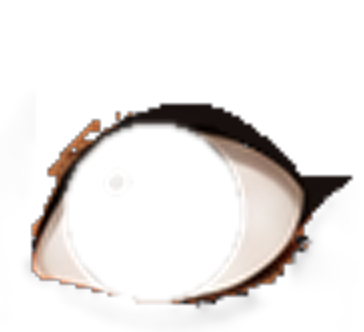
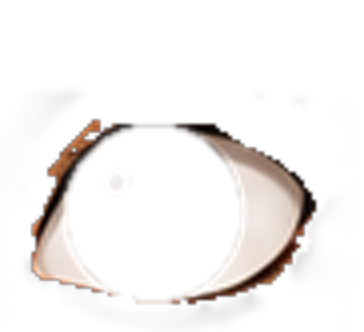
Yeux : eye-liner du haut dessiné net par le jeu, trait du bas retiré
Claude-Session: https://claude.ai/code/session_01RffJDTtPaeahFdiXkdY2ya

diff --git a/js/yeux-art.js b/js/yeux-art.js
@@ -1,6 +1,6 @@
 /* yeux décalqués par tools/traceur-yeux.py sur docs/references/yeux/ — ne pas modifier à la main
    [x, y, l, h] de l'image par rapport au centre de l'œil, centre x/y et rayon de l'iris, puis 9 points de la paupière
    (coin intérieur → extérieur) pour les cils dessinés par le jeu (unités du jeu) */
-const EYE_ART={"ronds":{"g":[-38.56,-44.99,74.72,67.49,3.12,-2.31,17.36,[25.71,-1.53],[19.28,-10.06],[12.85,-16.53],[6.43,-20.92],[0.0,-23.2],[-6.43,-23.36],[-12.85,-21.41],[-19.28,-17.35],[-25.71,-11.16]],"d":[-33.34,-44.59,73.11,66.68,-2.86,-2.06,17.44,[-26.11,-3.88],[-19.59,-12.17],[-13.06,-18.38],[-6.52,-22.47],[0.0,-24.43],[6.52,-24.25],[13.06,-21.92],[19.59,-17.45],[26.11,-10.84]]},"amande":{"g":[-39.77,-42.58,77.13,62.67,3.02,-1.31,16.78,[25.31,1.0],[18.98,-6.99],[12.65,-13.1],[6.33,-17.28],[0.0,-19.51],[-6.33,-19.81],[-12.65,-18.16],[-18.98,-14.55],[-25.31,-8.98]],"d":[-37.36,-42.98,77.13,61.06,-3.72,-2.6,16.83,[-25.31,-3.1],[-18.98,-9.88],[-12.65,-15.04],[-6.33,-18.52],[0.0,-20.3],[6.33,-20.4],[12.65,-18.8],[18.98,-15.51],[25.31,-10.5]]},"amandelong":{"g":[-39.37,-40.17,74.72,59.45,2.78,-2.78,16.17,[24.91,2.09],[18.68,-4.13],[12.45,-9.1],[6.23,-12.78],[0.0,-15.16],[-6.23,-16.22],[-12.45,-15.96],[-18.68,-14.4],[-24.91,-11.5]],"d":[-32.94,-40.57,73.11,57.84,-2.38,-3.56,16.22,[-24.91,-3.7],[-18.68,-10.73],[-12.45,-16.04],[-6.23,-19.57],[0.0,-21.31],[6.23,-21.25],[12.45,-19.39],[18.68,-15.72],[24.91,-10.25]]},"enfonces":{"g":[-38.96,-42.18,77.93,62.67,3.22,-3.12,16.14,[24.5,-3.49],[18.38,-9.91],[12.25,-14.8],[6.12,-18.1],[0.0,-19.82],[-6.12,-19.94],[-12.25,-18.46],[-18.38,-15.39],[-24.5,-10.7]],"d":[-35.75,-41.38,75.52,59.45,-2.69,-2.93,16.09,[-24.5,-3.55],[-18.38,-10.35],[-12.25,-15.51],[-6.12,-18.98],[0.0,-20.77],[6.12,-20.85],[12.25,-19.22],[18.38,-15.89],[24.5,-10.85]]},"sortants":{"g":[-37.36,-42.58,73.91,62.67,8.77,-2.79,16.21,[23.7,0.21],[17.77,-6.14],[11.85,-11.13],[5.93,-14.7],[0.0,-16.86],[-5.93,-17.59],[-11.85,-16.88],[-17.77,-14.74],[-23.7,-11.18]],"d":[-33.74,-44.99,74.72,61.86,6.1,-5.08,16.14,[-24.91,1.0],[-18.68,-7.08],[-12.45,-13.43],[-6.23,-18.02],[0.0,-20.82],[6.23,-21.83],[12.45,-21.04],[18.68,-18.46],[24.91,-14.09]]},"petits":{"g":[-39.37,-40.57,76.32,60.25,2.69,-0.91,15.14,[23.3,1.08],[17.47,-6.36],[11.65,-12.06],[5.82,-15.96],[0.0,-18.05],[-5.82,-18.34],[-11.65,-16.82],[-17.47,-13.47],[-23.3,-8.32]],"d":[-34.14,-38.96,75.52,58.65,-2.79,-1.91,14.97,[-22.9,-0.3],[-17.18,-6.56],[-11.45,-11.46],[-5.72,-14.94],[0.0,-17.0],[5.72,-17.63],[11.45,-16.84],[17.18,-14.61],[22.9,-10.93]]},"grands":{"g":[-39.77,-46.2,74.72,69.09,3.13,-2.55,17.74,[26.11,0.88],[19.59,-8.11],[13.06,-15.07],[6.52,-19.93],[0.0,-22.7],[-6.52,-23.35],[-13.06,-21.88],[-19.59,-18.31],[-26.11,-12.62]],"d":[-32.54,-46.2,73.11,68.29,-3.12,-2.82,17.71,[-26.11,-1.78],[-19.59,-11.3],[-13.06,-18.52],[-6.52,-23.38],[0.0,-25.87],[6.52,-25.99],[13.06,-23.73],[19.59,-19.1],[26.11,-12.09]]},"tombantes":{"g":[-39.37,-39.77,75.52,58.65,2.9,-3.77,16.09,[24.91,-0.88],[18.68,-7.23],[12.45,-12.17],[6.23,-15.66],[0.0,-17.68],[-6.23,-18.23],[-12.45,-17.3],[-18.68,-14.9],[-24.91,-11.01]],"d":[-37.76,-39.77,77.13,59.45,-2.98,-4.04,16.11,[-24.91,-0.67],[-18.68,-6.91],[-12.45,-11.79],[-6.23,-15.26],[0.0,-17.33],[6.23,-17.97],[12.45,-17.19],[18.68,-14.98],[24.91,-11.35]]},"monolides":{"g":[-39.37,-36.96,74.72,57.04,3.15,-3.31,15.61,[24.1,1.21],[18.08,-5.82],[12.05,-11.36],[6.03,-15.38],[0.0,-17.86],[-6.03,-18.79],[-12.05,-18.19],[-18.08,-16.03],[-24.1,-12.32]],"d":[-38.16,-37.36,77.13,55.43,-3.32,-3.33,15.82,[-24.5,0.71],[-18.38,-5.23],[-12.25,-9.99],[-6.12,-13.51],[0.0,-15.79],[6.12,-16.83],[12.25,-16.61],[18.38,-15.15],[24.5,-12.44]]},"releves":{"g":[-38.16,-40.57,77.93,60.25,3.02,-2.49,15.4,[23.7,-1.27],[17.77,-7.9],[11.85,-13.04],[5.93,-16.66],[0.0,-18.74],[-5.93,-19.29],[-11.85,-18.29],[-17.77,-15.74],[-23.7,-11.65]],"d":[-36.96,-40.17,77.13,57.04,-3.42,-2.84,15.68,[-24.1,0.43],[-18.08,-5.86],[-12.05,-10.89],[-6.03,-14.61],[0.0,-17.0],[6.03,-18.06],[12.05,-17.79],[18.08,-16.18],[24.1,-13.23]]}};
+const EYE_ART={"ronds":{"g":[-38.56,-44.99,74.72,67.49,3.12,-2.31,17.36,[26.91,1.3],[19.99,-7.94],[13.06,-14.69],[6.12,-18.97],[-0.8,-20.77],[-7.73,-20.08],[-14.66,-16.91],[-21.6,-11.27],[-28.52,-3.14]],"d":[-33.34,-44.59,73.11,66.68,-2.86,-2.06,17.44,[-26.51,-2.27],[-19.59,-10.85],[-12.65,-16.98],[-5.72,-20.7],[1.21,-21.96],[8.13,-20.8],[15.06,-17.19],[22.0,-11.16],[28.92,-2.68]]},"amande":{"g":[-39.77,-42.58,77.13,62.67,3.02,-1.31,16.78,[28.12,6.1],[20.69,-3.78],[13.26,-10.95],[5.82,-15.41],[-1.61,-17.15],[-9.04,-16.17],[-16.47,-12.48],[-23.9,-6.08],[-31.33,3.04]],"d":[-37.36,-42.98,77.13,61.06,-3.72,-2.6,16.83,[-27.32,0.37],[-19.99,-7.64],[-12.65,-13.35],[-5.32,-16.76],[2.01,-17.87],[9.34,-16.67],[16.67,-13.17],[24.01,-7.36],[31.33,0.75]]},"amandelong":{"g":[-39.37,-40.17,74.72,59.45,2.78,-2.78,16.17,[26.91,5.33],[19.68,-1.94],[12.45,-7.42],[5.22,-11.1],[-2.01,-12.98],[-9.24,-13.07],[-16.47,-11.36],[-23.7,-7.84],[-30.93,-2.53]],"d":[-32.94,-40.57,73.11,57.84,-2.38,-3.56,16.22,[-26.91,-0.07],[-19.99,-8.15],[-13.06,-13.96],[-6.12,-17.52],[0.8,-18.83],[7.73,-17.89],[14.66,-14.69],[21.6,-9.24],[28.52,-1.53]]},"enfonces":{"g":[-38.96,-42.18,77.93,62.67,3.22,-3.12,16.14,[26.51,-0.07],[19.38,-7.69],[12.25,-13.11],[5.13,-16.34],[-2.01,-17.38],[-9.14,-16.22],[-16.27,-12.88],[-23.39,-7.34],[-30.53,0.39]],"d":[-35.75,-41.38,75.52,59.45,-2.69,-2.93,16.09,[-27.32,1.06],[-20.18,-7.29],[-13.06,-13.3],[-5.93,-16.98],[1.21,-18.32],[8.34,-17.32],[15.47,-14.0],[22.59,-8.34],[29.73,-0.35]]},"sortants":{"g":[-37.36,-42.58,73.91,62.67,8.77,-2.79,16.21,[26.51,4.64],[19.48,-3.21],[12.45,-9.04],[5.42,-12.81],[-1.61,-14.56],[-8.64,-14.26],[-15.67,-11.92],[-22.7,-7.55],[-29.73,-1.13]],"d":[-33.74,-44.99,74.72,61.86,6.1,-5.08,16.14,[-25.31,2.62],[-18.38,-6.09],[-11.45,-12.55],[-4.52,-16.77],[2.41,-18.74],[9.34,-18.46],[16.27,-15.95],[23.2,-11.19],[30.13,-4.19]]},"petits":{"g":[-39.37,-40.57,76.32,60.25,2.69,-0.91,15.14,[25.31,5.01],[18.68,-3.71],[12.05,-10.07],[5.42,-14.04],[-1.21,-15.66],[-7.83,-14.9],[-14.46,-11.76],[-21.09,-6.26],[-27.72,1.62]],"d":[-34.14,-38.96,75.52,58.65,-2.79,-1.91,14.97,[-24.91,3.2],[-18.28,-4.19],[-11.65,-9.63],[-5.02,-13.14],[1.61,-14.69],[8.23,-14.29],[14.86,-11.95],[21.49,-7.67],[28.12,-1.45]]},"grands":{"g":[-39.77,-46.2,74.72,69.09,3.13,-2.55,17.74,[27.32,3.78],[20.29,-5.95],[13.26,-13.22],[6.23,-18.0],[-0.8,-20.32],[-7.83,-20.17],[-14.86,-17.54],[-21.89,-12.44],[-28.92,-4.88]],"d":[-32.54,-46.2,73.11,68.29,-3.12,-2.82,17.71,[-27.32,1.24],[-20.29,-9.09],[-13.26,-16.65],[-6.23,-21.44],[0.8,-23.44],[7.83,-22.67],[14.86,-19.12],[21.89,-12.8],[28.92,-3.7]]},"tombantes":{"g":[-39.37,-39.77,75.52,58.65,2.9,-3.77,16.09,[27.72,3.4],[20.39,-4.39],[13.06,-10.11],[5.72,-13.76],[-1.61,-15.34],[-8.93,-14.84],[-16.27,-12.27],[-23.6,-7.63],[-30.93,-0.92]],"d":[-37.76,-39.77,77.13,59.45,-2.98,-4.04,16.11,[-27.72,3.54],[-20.39,-4.09],[-13.06,-9.73],[-5.72,-13.37],[1.61,-15.0],[8.93,-14.64],[16.27,-12.28],[23.6,-7.92],[30.93,-1.56]]},"monolides":{"g":[-39.37,-36.96,74.72,57.04,3.15,-3.31,15.61,[26.91,5.93],[20.18,-2.31],[13.46,-8.6],[6.73,-12.95],[0.0,-15.34],[-6.73,-15.79],[-13.46,-14.28],[-20.18,-10.81],[-26.91,-5.41]],"d":[-38.16,-37.36,77.13,55.43,-3.32,-3.33,15.82,[-27.32,4.77],[-20.49,-2.1],[-13.66,-7.41],[-6.83,-11.13],[0.0,-13.28],[6.83,-13.85],[13.66,-12.85],[20.49,-10.27],[27.32,-6.11]]},"releves":{"g":[-38.16,-40.57,77.93,60.25,3.02,-2.49,15.4,[26.51,3.33],[19.88,-4.49],[13.26,-10.36],[6.63,-14.28],[0.0,-16.23],[-6.63,-16.23],[-13.26,-14.28],[-19.88,-10.36],[-26.51,-4.5]],"d":[-36.96,-40.17,77.13,57.04,-3.42,-2.84,15.68,[-26.91,4.76],[-20.18,-2.59],[-13.46,-8.24],[-6.73,-12.21],[0.0,-14.49],[6.73,-15.08],[13.46,-13.99],[20.18,-11.21],[26.91,-6.74]]}};
 const EYE_IRIS_LUM=[0.037, 0.159, 0.864];
 const EYE_LASHES=["naturels", "longs", "epais", "espaces", "recourbes"];

diff --git a/js/app.js b/js/app.js
@@ -208,25 +208,32 @@ const EYE_OLD={grands:'grands',brillants:'grands',amande:'amande',ronds:'ronds',
 const EYE_REF='#5f3a23';
 const eyeKey=k=>typeof EYE_ART==='undefined'?k:EYE_ART[k]?k:(EYE_OLD[k]||'amande');
 const EYEART=s=>typeof EYE_ART!=='undefined'&&EYE_ART[eyeKey(s.eyes)];
-/* styles de cils d'après la planche : brins fins et effilés, plus longs et plus couchés vers le coin extérieur, pointe recourbée vers l'extérieur */
-const LASH_STY={naturels:{n:11,len:[2.5,6.5],w:1,tilt:[10,55],bend:.42,u0:.2},longs:{n:11,len:[3.5,10],w:1.05,tilt:[12,58],bend:.38,u0:.2},epais:{n:15,len:[3,7],w:1.55,tilt:[12,55],bend:.32,u0:.15},
- espaces:{n:6,len:[4,8.5],w:1.15,tilt:[14,55],bend:.36,u0:.3},recourbes:{n:11,len:[3.5,8.5],w:1.1,tilt:[4,40],bend:.75,u0:.2}};
-function lashSVG(P,sty){const L=LASH_STY[sty];if(!L||!P)return '';let d='';const f=v=>v.toFixed(2);
- for(let i=0;i<L.n;i++){const jit=((i*7919)%13)/13-.5,u=Math.min(1,L.u0+(1-L.u0)*(i+jit*.35)/(L.n-1)),q=u*(P.length-1),j=Math.min(P.length-2,Math.floor(q)),t=q-j;
-  const x=P[j][0]+(P[j+1][0]-P[j][0])*t,y=P[j][1]+(P[j+1][1]-P[j][1])*t;
-  let tx=P[j+1][0]-P[j][0],ty=P[j+1][1]-P[j][1];const tl=Math.hypot(tx,ty)||1;tx/=tl;ty/=tl;let nx=ty,ny=-tx;if(ny>0){nx=-nx;ny=-ny}
+/* eye-liner du haut et cils dessinés par le jeu (nets à toutes les tailles), d'après la planche : trait fin au coin intérieur,
+   épais vers l'extérieur, queue relevée ; cils fins et effilés, plus longs et couchés vers l'extérieur, pointe recourbée.
+   P = 9 points du haut de l'ouverture de l'œil (coin intérieur → extérieur), relevés sur la planche de Prescillia. */
+const LASH_STY={naturels:{n:11,len:[2.5,6.5],w:1,tilt:[10,55],bend:.42,u0:.2},longs:{n:12,len:[3.5,10],w:1.05,tilt:[10,58],bend:.4,u0:.15},
+ epais:{n:16,len:[3,7],w:1.5,tilt:[10,55],bend:.38,u0:.12},espaces:{n:6,len:[4,8],w:1.15,tilt:[12,55],bend:.4,u0:.28},recourbes:{n:12,len:[3.5,8.5],w:1.1,tilt:[2,40],bend:.8,u0:.15}};
+function lidCurve(P,n){const o=[];for(let k=0;k<=n;k++){const q=k/n*(P.length-1),j=Math.min(P.length-2,Math.floor(q)),t=q-j,p0=P[Math.max(0,j-1)],p1=P[j],p2=P[j+1],p3=P[Math.min(P.length-1,j+2)],t2=t*t,t3=t2*t;
+ o.push([0,1].map(c=>.5*(2*p1[c]+(-p0[c]+p2[c])*t+(2*p0[c]-5*p1[c]+4*p2[c]-p3[c])*t2+(-p0[c]+3*p1[c]-3*p2[c]+p3[c])*t3)))}return o}
+function lidSVG(P,sty){if(!P||P.length<3)return '';const f=v=>v.toFixed(2),C=lidCurve(P,32),N=C.length,sx=Math.sign(C[N-1][0]-C[0][0])||1;
+ const nrm=k=>{const a=C[Math.max(0,k-1)],b=C[Math.min(N-1,k+1)];let tx=b[0]-a[0],ty=b[1]-a[1];const l=Math.hypot(tx,ty)||1;tx/=l;ty/=l;let nx=ty,ny=-tx;if(ny>0){nx=-nx;ny=-ny}return [tx,ty,nx,ny]};
+ const th=u=>.5+3.4*Math.pow(u,1.15),bot=[],top=[];
+ C.forEach((p,k)=>{const u=k/(N-1),[,,nx,ny]=nrm(k),t=th(u);bot.push([p[0]-nx*1.4,p[1]-ny*1.4]);top.push([p[0]+nx*t,p[1]+ny*t])});
+ const e=C[N-1],T=th(1),wx=e[0]+sx*9,wy=e[1]-T-4;
+ const liner=`M${bot.map(q=>f(q[0])+','+f(q[1])).join(' L')} Q${f(e[0]+sx*5.5)},${f(e[1]-1.6)} ${f(wx)},${f(wy)} Q${f(e[0]+sx*3.5)},${f(e[1]-T-1.6)} ${top.slice().reverse().map(q=>f(q[0])+','+f(q[1])).join(' L')}Z`;
+ const L=LASH_STY[sty]||LASH_STY.naturels;let d='';
+ for(let i=0;i<L.n;i++){const jit=((i*7919)%13)/13-.5,u=Math.min(1,L.u0+(1-L.u0)*(i+jit*.35)/(L.n-1)),k=Math.round(u*(N-1)),[tx,ty,nx,ny]=nrm(k),b=top[k];
   const a=(L.tilt[0]+(L.tilt[1]-L.tilt[0])*u*u)*Math.PI/180,dx=nx*Math.cos(a)+tx*Math.sin(a),dy=ny*Math.cos(a)+ty*Math.sin(a);
-  const len=(L.len[0]+(L.len[1]-L.len[0])*Math.pow(u,1.6))*(1+jit*.18)+1.6,hw=L.w/2,bx=x-nx*2.8,by=y-ny*2.8;
-  const mx=bx+dx*len*.55,my=by+dy*len*.55,ex=mx+(dx*Math.cos(L.bend)+tx*Math.sin(L.bend))*len*.5,ey=my+(dy*Math.cos(L.bend)+ty*Math.sin(L.bend))*len*.5-len*.04;
-  const px=-dy*hw,py=dx*hw;
-  d+=`M${f(bx+px)},${f(by+py)} Q${f(mx+px*.45)},${f(my+py*.45)} ${f(ex)},${f(ey)} Q${f(mx-px*.45)},${f(my-py*.45)} ${f(bx-px)},${f(by-py)}Z`}
- return `<path d="${d}" fill="#141012"/>`}
+  const len=(L.len[0]+(L.len[1]-L.len[0])*Math.pow(u,1.6))*(1+jit*.18)+.8,hw=L.w/2,bx=b[0]-nx*.8,by=b[1]-ny*.8;
+  const mx=bx+dx*len*.55,my=by+dy*len*.55,ex=mx+(dx*Math.cos(L.bend)+tx*Math.sin(L.bend))*len*.5,ey=my+(dy*Math.cos(L.bend)+ty*Math.sin(L.bend))*len*.5;
+  const px=-dy*hw,py=dx*hw;d+=`M${f(bx+px)},${f(by+py)} Q${f(mx+px*.45)},${f(my+py*.45)} ${f(ex)},${f(ey)} Q${f(mx-px*.45)},${f(my-py*.45)} ${f(bx-px)},${f(by-py)}Z`}
+ return `<path d="${liner}" fill="#141012"/><path d="${d}" fill="#141012"/>`}
 function eyeArt(s,side,p){const k=eyeKey(s.eyes),A=EYE_ART[k][side],[x,y,w,h]=A,P=A.slice(7);
  const g=rgb(s.iris||EYE_REF).map((v,i)=>v/Math.max(1,rgb(EYE_REF)[i])),same=g.every(v=>Math.abs(v-1)<.03),id=p+'if'+side;
  return (same?'':`<defs><filter id="${id}" color-interpolation-filters="sRGB"><feColorMatrix type="matrix" values="${g[0].toFixed(3)} 0 0 0 0 0 ${g[1].toFixed(3)} 0 0 0 0 0 ${g[2].toFixed(3)} 0 0 0 0 0 1 0"/></filter></defs>`)
   +`<image href="assets/yeux/${k}-iris-${side}.png" x="${x}" y="${y}" width="${w}" height="${h}" preserveAspectRatio="none"${same?'':` filter="url(#${id})"`}/>`
   +`<image href="assets/yeux/${k}-${side}.png" x="${x}" y="${y}" width="${w}" height="${h}" preserveAspectRatio="none"/>`
-  +lashSVG(P,s.cils)}
+  +lidSVG(P,s.cils)}
 function eye(E,m,p,skDD){
  const ink='#1d1411';
  if(E.closed) return `<path d="M-26,6 C-14,-16 14,-16 28,4" fill="none" stroke="${ink}" stroke-width="6" stroke-linecap="round"/><path d="M26,2 L37,-7" stroke="${ink}" stroke-width="4" stroke-linecap="round"/>`;

diff --git a/tools/traceur-yeux.py b/tools/traceur-yeux.py
@@ -233,10 +233,10 @@ for sid, (x, y, w, h) in SHAPES:
         T = 1.3 + 4.2 * u_ ** 1.2
         yo_ = np.polyval(cfo, xo_) - 4.2; sl = np.polyval(np.polyder(cfo), xo_)
         inb = (xx >= box[0]) & (xx <= box[2])
-        limF = np.where(inb, np.polyval(cfo, np.clip(xx, box[0], box[2])) - T,
-                        np.where((xx - xo_) * sgn > 0, yo_ + sl * (xx - xo_) * .4 - .5 * np.abs(xx - xo_), -1))
-        P = [(float(x_), float(np.polyval(cfo, x_) - (1.3 + 4.2 * (((x_ - xi_) * sgn) / max(1, box[2] - box[0])) ** 1.2))) for x_ in np.linspace(box[0], box[2], 9)]
-        cut = (yy < limF) & ~inside
+        # tout le trait (haut et bas) est retiré de l'image : le jeu dessine l'eye-liner du haut, net ; pas de trait en bas
+        cut = ink & ~inside
+        AXs = np.where(inside.any(0))[0]; xa, xb = int(AXs.min()), int(AXs.max())
+        P = [(float(x_), float(np.polyval(cfo, x_))) for x_ in np.linspace(xa + .5, xb - .5, 9)]
         top = np.where(cut, 0, top)
         save(f'{sid}-{side}', top, col)
         if side == 'g': P = P[::-1]
